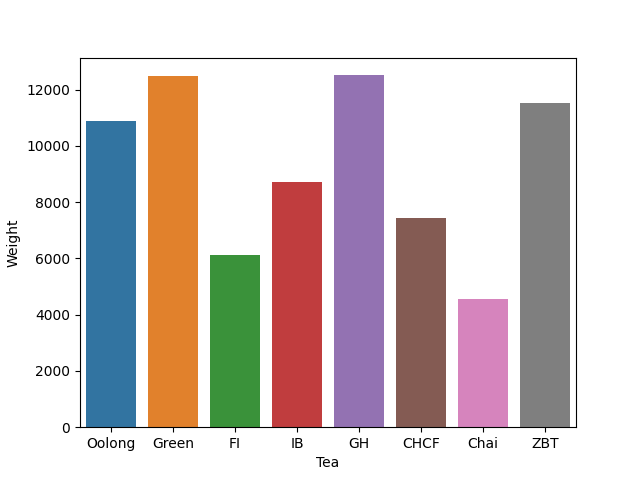
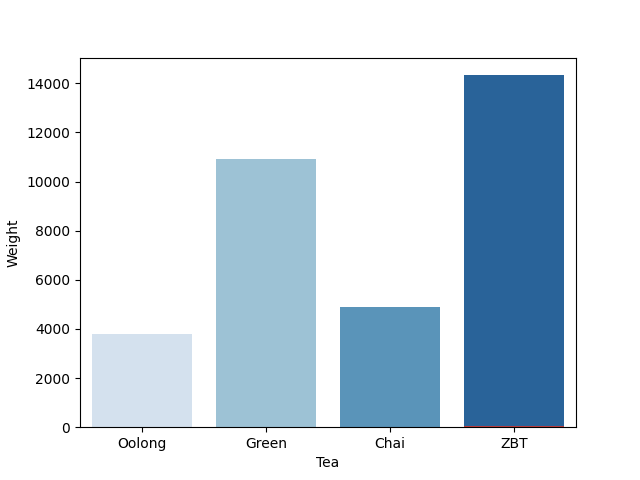
Bar charts, overall bar charts added

diff --git a/templates/statistics.html b/templates/statistics.html
@@ -10,24 +10,36 @@
         <h1>Month of  {{data_var12| safe}}</h1>
         <br>
           
-    </div>  
+    </div> 
+    <br>
+    <div id="leftbox1">
+        <h6> Total Teabags </h6>
+        <h6> {{ tbs_total | safe}}</h6>
+    </div>
+    <div id="leftbox2">
+        <h6> Total Sachets </h6>
+        <h6> {{ sachet_count | safe}}</h6>
+    </div>
+
+    <div id="leftbox2">
+        <h6> Total Units </h6>
+        <h6> {{ total_units | safe}}</h6>
+    </div>
+
+    <br>
+
+
     <div>
         <div id="fullbox" style="overflow:auto; overflow-x:hidden;  height:300px;">
 
             <h6> {{ w | safe}}</h6>
         </div>
         <br>
-        
-        <div id="rightbox">
-            <h6> Total Sachets {{ sachet_count| safe}}</h6>
-            
-        </div>
-
 
     </div>
     
         
-   
+    
 
    
    <br>
@@ -40,6 +52,34 @@
    <div id="rightbox">
          <img src='./static/uploads/wgt.png' width="370" height="300"/>
    </div>
+  
+
+   <div id="middlebox">
+        <h6> Total Teabags in different months</h6>
+        <img src='./static/uploads/tbs.png' width="370" height="300"/>
+
+   </div>
+
+   <br>
+
+   <div id="middlebox">
+        <h6> Total Sachets in different months</h6>
+        <img src='./static/uploads/sachet.png' width="370" height="300"/>
+
+    </div>
+
+    <br>
+
+    <div id="middlebox">
+        <h6> Total Units in different months</h6>
+        <img src='./static/uploads/units.png' width="370" height="300"/>
+
+    </div>
+
+
+   
+
+ 
 
 
     

diff --git a/static/main.css b/static/main.css
@@ -5,7 +5,7 @@
   height:100px;
   margin-bottom: 1px;
   margin-top: 2px;
-  padding-left: 10px;
+  padding-left: 1px;
   
   padding-bottom: 10px;
 }
@@ -23,17 +23,18 @@
 
   #leftbox1 {
     float:left; 
-    background:white;
-    width:33%;
-    height:50px;
-    margin-bottom: 1px;
-    padding-left: 150px;
+    text-align: center;
+    background:lightgray;
+    width:30%;
+    height:70px;
+    margin-bottom: 25px;
+    padding-left: 10px;
     padding-top: 10px;
   }
-  #middlebox{
-    float:left; 
+  #middlebox{ 
     background:whitesmoke;
-    width:20%;
+    margin-top: 200px;
+    width:50%;
     height:30px;
     
     padding-left: 100px;
@@ -59,15 +60,22 @@
     padding-left: 0px;
     padding-top: 1px;
   }
-  #rightbox1{
-    float: right;
-    background:white ;
-    width:24%;
-    height:50px;
-   
-    padding-left: 100px;
+  
+
+  #leftbox2 {
+    float:left; 
+    text-align: center;
+    background:lightgray;
+    width:30%;
+    height:70px;
+    margin-bottom: 25px;
+    margin-left: 35px;
+    padding-left: 10px;
     padding-top: 10px;
   }
+  
+
+
   h1{
     color:green;
     text-align:center;

diff --git a/app.py b/app.py
@@ -23,7 +23,8 @@ app.config['UPLOAD_FOLDER'] = UPLOAD_FOLDER
 app.secret_key = 'This is your secret key to utilize session in Flask'
 
 
-
+global overall_dict
+overall_dict={}
 
 
 
@@ -40,6 +41,15 @@ def home():
 def operations():
     return render_template('operations.html')
 
+
+@app.route('/overallstatistics')
+def overallstatistics():
+    pass
+
+
+
+
+
 @app.route('/statistics')
 def statistics():
     import seaborn as sns
@@ -50,6 +60,7 @@ def statistics():
         pass
     d=session.get("month_name1")
     w=session.get("monthly_table")
+    y=session.get("year")
     dict1 =session.get("monthly_table_dict")
     sachet_count =session.get("sachet_count")
 
@@ -60,7 +71,7 @@ def statistics():
 
 
     monthly_table1 = pd.DataFrame(dict1)
-    sns_plot= sns.barplot(data=monthly_table1, x="Tea", y="Count")
+    sns_plot= sns.barplot(data=monthly_table1, x="Tea", y="Count",  palette = "Blues")
     fig = sns_plot.get_figure()
     fig.savefig("./static/uploads/output.png")
     #fig=sns_plot.get_figure().savefig("./static/uploads/output.png")
@@ -71,9 +82,42 @@ def statistics():
 
 
     # taking the sum of all the teabags
+    tbs_total = monthly_table1['Count'].sum()
+
+    total_units = sachet_count + tbs_total
+
+
+
+    
+    c= d+' ' +str(y)
+    lst= [ c, y, d, tbs_total, sachet_count, total_units]
+    overall_dict[c]= lst
+    overall= pd.DataFrame(overall_dict)
+
+    df_tbs=pd.DataFrame((overall.loc[3]))
+    plot_tbs=sns.barplot(data=df_tbs, x=df_tbs.index, y=3, palette = "Greens")
+    fig_tbs = plot_tbs.get_figure()
+    fig_tbs.savefig("./static/uploads/tbs.png")
+
+    df_sachet=pd.DataFrame((overall.loc[4]))
+    plot_sachet=sns.barplot(data=df_sachet, x=df_tbs.index, y=4,  palette = "Blues")
+    fig_sachet = plot_sachet.get_figure()
+    fig_sachet.savefig("./static/uploads/sachet.png")
     
 
-    return render_template('statistics.html', data_var12=d, w=w , dict1=dict1, sachet_count=sachet_count )
+    df_units=pd.DataFrame((overall.loc[5]))
+    plot_units=sns.barplot(data=df_units, x=df_tbs.index, y=5,  palette = "Reds")
+    fig_units = plot_units.get_figure()
+    fig_units.savefig("./static/uploads/units.png")
+    
+    overall_html = overall.to_html(classes='table table-stripped')
+   
+
+
+
+    
+
+    return render_template('statistics.html', data_var12=d, w=w , dict1=dict1, sachet_count=sachet_count , tbs_total=tbs_total, total_units=total_units, overall_dict=overall_html)
 
 
 @app.route('/month')
@@ -93,6 +137,7 @@ def month1():
     month_name= calendar.month_name[month]
     session["month_name1"]=month_name  # i am using the month name to display in statistics page, hence using session 
     year = int(string1.split('-')[0])
+    session["year"]=year
     df = pd.read_csv('./static/uploads/dailyoperation.csv')
     df['DATE'] = pd.to_datetime(df['DATE']).dt.strftime('%d/%m/%Y')
     df= df.sort_values(by='DATE', ascending=False)
